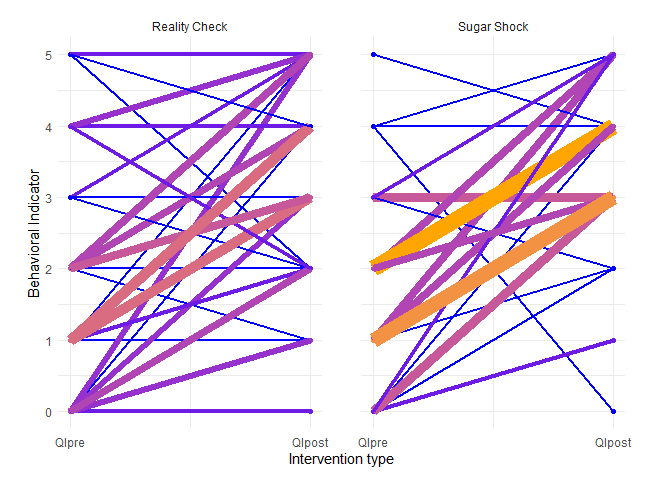
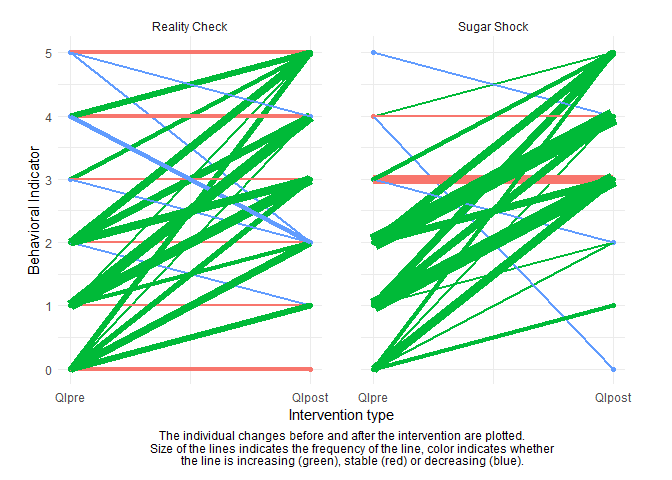
Finalization of project: - added plot that shows change betweeen qi_pre and qi_post depending on intervention - changed color in plot: now depends on increasing/decreasing of line - fixed one mistake in sweets_mean

diff --git a/Projects/lea-immenkamp/Chaoicci.md b/Projects/lea-immenkamp/Chaoicci.md
@@ -8,7 +8,6 @@ tables, the dataset looks like this:
 <caption>Dataset</caption>
 <colgroup>
 <col style="width: 7%" />
-<col style="width: 11%" />
 <col style="width: 4%" />
 <col style="width: 4%" />
 <col style="width: 4%" />
@@ -19,17 +18,17 @@ tables, the dataset looks like this:
 <col style="width: 2%" />
 <col style="width: 2%" />
 <col style="width: 2%" />
-<col style="width: 9%" />
-<col style="width: 10%" />
 <col style="width: 5%" />
 <col style="width: 6%" />
 <col style="width: 3%" />
+<col style="width: 10%" />
+<col style="width: 11%" />
+<col style="width: 9%" />
 <col style="width: 10%" />
 </colgroup>
 <thead>
 <tr>
 <th style="text-align: left;">child_id</th>
-<th style="text-align: left;">Intervention</th>
 <th style="text-align: right;">i1t0</th>
 <th style="text-align: right;">i2t0</th>
 <th style="text-align: right;">i3t0</th>
@@ -40,18 +39,18 @@ tables, the dataset looks like this:
 <th style="text-align: right;">i3</th>
 <th style="text-align: right;">i4</th>
 <th style="text-align: right;">i5</th>
-<th style="text-align: right;">Motivation</th>
-<th style="text-align: right;">Helpfulness</th>
 <th style="text-align: right;">qi_pre</th>
 <th style="text-align: right;">qi_post</th>
 <th style="text-align: right;">age</th>
 <th style="text-align: right;">sweets_mean</th>
+<th style="text-align: left;">intervention</th>
+<th style="text-align: right;">motivation</th>
+<th style="text-align: right;">helpfulness</th>
 </tr>
 </thead>
 <tbody>
 <tr>
 <td style="text-align: left;">1</td>
-<td style="text-align: left;">Reality Check</td>
 <td style="text-align: right;">0</td>
 <td style="text-align: right;">0</td>
 <td style="text-align: right;">0</td>
@@ -62,36 +61,36 @@ tables, the dataset looks like this:
 <td style="text-align: right;">1</td>
 <td style="text-align: right;">1</td>
 <td style="text-align: right;">1</td>
-<td style="text-align: right;">3</td>
-<td style="text-align: right;">4</td>
 <td style="text-align: right;">0</td>
 <td style="text-align: right;">4</td>
 <td style="text-align: right;">11</td>
+<td style="text-align: right;">3</td>
+<td style="text-align: left;">Reality Check</td>
+<td style="text-align: right;">3</td>
 <td style="text-align: right;">4</td>
 </tr>
 <tr>
 <td style="text-align: left;">1</td>
+<td style="text-align: right;">0</td>
+<td style="text-align: right;">1</td>
+<td style="text-align: right;">0</td>
+<td style="text-align: right;">0</td>
+<td style="text-align: right;">0</td>
+<td style="text-align: right;">1</td>
+<td style="text-align: right;">1</td>
+<td style="text-align: right;">1</td>
+<td style="text-align: right;">0</td>
+<td style="text-align: right;">0</td>
+<td style="text-align: right;">1</td>
+<td style="text-align: right;">3</td>
+<td style="text-align: right;">11</td>
+<td style="text-align: right;">3</td>
 <td style="text-align: left;">Sugar Shock</td>
-<td style="text-align: right;">0</td>
-<td style="text-align: right;">1</td>
-<td style="text-align: right;">0</td>
-<td style="text-align: right;">0</td>
-<td style="text-align: right;">0</td>
-<td style="text-align: right;">1</td>
-<td style="text-align: right;">1</td>
-<td style="text-align: right;">1</td>
-<td style="text-align: right;">0</td>
-<td style="text-align: right;">0</td>
 <td style="text-align: right;">2</td>
 <td style="text-align: right;">4</td>
-<td style="text-align: right;">1</td>
-<td style="text-align: right;">3</td>
-<td style="text-align: right;">11</td>
-<td style="text-align: right;">4</td>
 </tr>
 <tr>
 <td style="text-align: left;">1</td>
-<td style="text-align: left;">Reality Check</td>
 <td style="text-align: right;">0</td>
 <td style="text-align: right;">0</td>
 <td style="text-align: right;">0</td>
@@ -102,52 +101,53 @@ tables, the dataset looks like this:
 <td style="text-align: right;">1</td>
 <td style="text-align: right;">1</td>
 <td style="text-align: right;">1</td>
-<td style="text-align: right;">3</td>
-<td style="text-align: right;">4</td>
 <td style="text-align: right;">2</td>
 <td style="text-align: right;">5</td>
 <td style="text-align: right;">11</td>
-<td style="text-align: right;">4</td>
-</tr>
-<tr>
-<td style="text-align: left;">1</td>
+<td style="text-align: right;">3</td>
 <td style="text-align: left;">Reality Check</td>
-<td style="text-align: right;">1</td>
-<td style="text-align: right;">1</td>
-<td style="text-align: right;">0</td>
-<td style="text-align: right;">0</td>
-<td style="text-align: right;">0</td>
-<td style="text-align: right;">0</td>
-<td style="text-align: right;">1</td>
-<td style="text-align: right;">0</td>
-<td style="text-align: right;">0</td>
-<td style="text-align: right;">0</td>
 <td style="text-align: right;">3</td>
-<td style="text-align: right;">4</td>
-<td style="text-align: right;">2</td>
-<td style="text-align: right;">1</td>
-<td style="text-align: right;">11</td>
 <td style="text-align: right;">4</td>
 </tr>
 <tr>
 <td style="text-align: left;">1</td>
-<td style="text-align: left;">Sugar Shock</td>
-<td style="text-align: right;">0</td>
-<td style="text-align: right;">0</td>
 <td style="text-align: right;">1</td>
 <td style="text-align: right;">1</td>
 <td style="text-align: right;">0</td>
-<td style="text-align: right;">1</td>
-<td style="text-align: right;">1</td>
-<td style="text-align: right;">1</td>
+<td style="text-align: right;">0</td>
+<td style="text-align: right;">0</td>
+<td style="text-align: right;">0</td>
 <td style="text-align: right;">1</td>
 <td style="text-align: right;">0</td>
+<td style="text-align: right;">0</td>
+<td style="text-align: right;">0</td>
+<td style="text-align: right;">2</td>
+<td style="text-align: right;">1</td>
+<td style="text-align: right;">11</td>
 <td style="text-align: right;">3</td>
+<td style="text-align: left;">Reality Check</td>
 <td style="text-align: right;">3</td>
+<td style="text-align: right;">4</td>
+</tr>
+<tr>
+<td style="text-align: left;">1</td>
+<td style="text-align: right;">0</td>
+<td style="text-align: right;">0</td>
+<td style="text-align: right;">1</td>
+<td style="text-align: right;">1</td>
+<td style="text-align: right;">0</td>
+<td style="text-align: right;">1</td>
+<td style="text-align: right;">1</td>
+<td style="text-align: right;">1</td>
+<td style="text-align: right;">1</td>
+<td style="text-align: right;">0</td>
 <td style="text-align: right;">2</td>
 <td style="text-align: right;">4</td>
 <td style="text-align: right;">11</td>
-<td style="text-align: right;">4</td>
+<td style="text-align: right;">3</td>
+<td style="text-align: left;">Sugar Shock</td>
+<td style="text-align: right;">3</td>
+<td style="text-align: right;">3</td>
 </tr>
 </tbody>
 </table>
@@ -156,8 +156,7 @@ tables, the dataset looks like this:
 
 ![](Chaoicci_files/figure-markdown_strict/comparison-of-interventions-1.png)
 
-The individual changes before and after the intervention are plotted.
-Size and color of the lines indicate the frequency of the line.
+![](Chaoicci_files/figure-markdown_strict/change-qi_pre-qi_post-1.png)
 
 # Task 5: Test whether motivation moderates the relationship between the intervention and the QIpost
 
@@ -168,7 +167,7 @@ The summary of the model looks like this:
 
     ## Linear mixed model fit by REML. t-tests use Satterthwaite's method [
     ## lmerModLmerTest]
-    ## Formula: qi_post ~ Intervention * Motivation + qi_pre + (1 | child_id)
+    ## Formula: qi_post ~ intervention * motivation + qi_pre + (1 | child_id)
     ##    Data: data_full
     ## 
     ## REML criterion at convergence: 391.9
@@ -186,25 +185,25 @@ The summary of the model looks like this:
     ## Fixed effects:
     ##                                     Estimate Std. Error        df t value
     ## (Intercept)                          3.26988    0.77467 114.00000   4.221
-    ## InterventionSugar Shock             -0.67304    1.05102 114.00000  -0.640
-    ## Motivation                          -0.13397    0.25277 114.00000  -0.530
+    ## interventionSugar Shock             -0.67304    1.05102 114.00000  -0.640
+    ## motivation                          -0.13397    0.25277 114.00000  -0.530
     ## qi_pre                               0.22875    0.08319 114.00000   2.750
-    ## InterventionSugar Shock:Motivation   0.33717    0.35259 114.00000   0.956
+    ## interventionSugar Shock:motivation   0.33717    0.35259 114.00000   0.956
     ##                                    Pr(>|t|)    
     ## (Intercept)                        4.91e-05 ***
-    ## InterventionSugar Shock             0.52322    
-    ## Motivation                          0.59715    
+    ## interventionSugar Shock             0.52322    
+    ## motivation                          0.59715    
     ## qi_pre                              0.00694 ** 
-    ## InterventionSugar Shock:Motivation  0.34096    
+    ## interventionSugar Shock:motivation  0.34096    
     ## ---
     ## Signif. codes:  0 '***' 0.001 '**' 0.01 '*' 0.05 '.' 0.1 ' ' 1
     ## 
     ## Correlation of Fixed Effects:
-    ##             (Intr) IntrSS Motvtn qi_pre
-    ## IntrvntnSgS -0.712                     
-    ## Motivation  -0.962  0.700              
+    ##             (Intr) intrSS motvtn qi_pre
+    ## intrvntnSgS -0.712                     
+    ## motivation  -0.962  0.700              
     ## qi_pre      -0.286  0.124  0.109       
-    ## IntrvntSS:M  0.701 -0.976 -0.721 -0.119
+    ## intrvntnSS:  0.701 -0.976 -0.721 -0.119
     ## optimizer (nloptwrap) convergence code: 0 (OK)
     ## boundary (singular) fit: see help('isSingular')
 